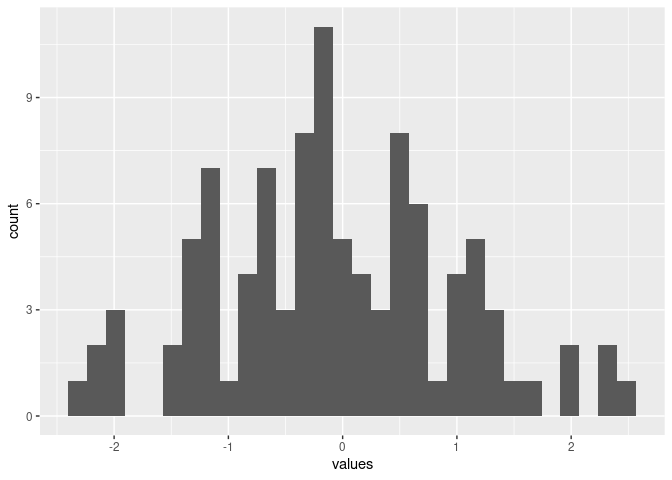
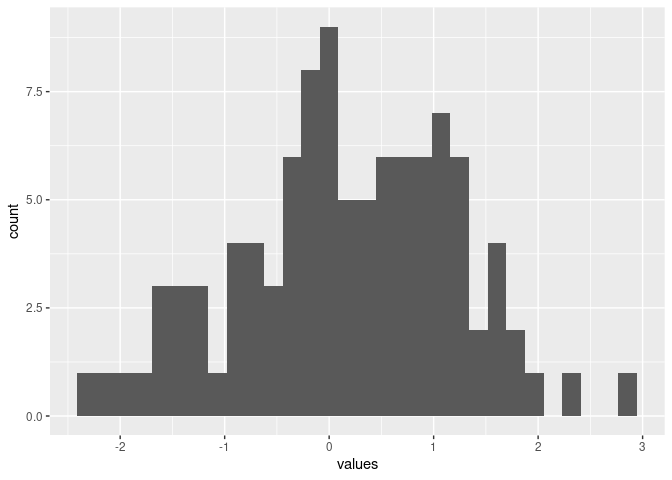
update readme

diff --git a/README.html b/README.html
@@ -35,7 +35,8 @@ body {
 <p>The goal of UN.plot.package is to generate any number of values from either uniform distribution or normal distribution. Plot the histogram for those values.</p>
 <h2 id="installation">Installation</h2>
 <p>You can install the released version of random.plot.package from <a href="https://CRAN.R-project.org">CRAN</a> with:</p>
-<div class="sourceCode" id="cb1"><pre class="sourceCode r"><code class="sourceCode r"><span id="cb1-1"><a href="#cb1-1" aria-hidden="true" tabindex="-1"></a><span class="fu">install.packages</span>(<span class="st">&quot;UN.plot.package&quot;</span>)</span></code></pre></div>
+<div class="sourceCode" id="cb1"><pre class="sourceCode r"><code class="sourceCode r"><span id="cb1-1"><a href="#cb1-1" aria-hidden="true" tabindex="-1"></a><span class="fu">library</span>(devtools)</span>
+<span id="cb1-2"><a href="#cb1-2" aria-hidden="true" tabindex="-1"></a>devtools<span class="sc">::</span><span class="fu">install_github</span>(<span class="st">&quot;tianyang1998/UN.plot.package&quot;</span>)</span></code></pre></div>
 <h2 id="example">Example</h2>
 <p>This is a basic example which shows you how to generate 100 values from normal distribution and uniform distribution. In addition, this example shows you the result histograms for these 100 values:</p>
 <div class="sourceCode" id="cb2"><pre class="sourceCode r"><code class="sourceCode r"><span id="cb2-1"><a href="#cb2-1" aria-hidden="true" tabindex="-1"></a><span class="fu">library</span>(UN.plot.package)</span>
@@ -45,26 +46,26 @@ body {
 <p>The part of the result values generated from both normal distribution and uniform distribution</p>
 <div class="sourceCode" id="cb3"><pre class="sourceCode r"><code class="sourceCode r"><span id="cb3-1"><a href="#cb3-1" aria-hidden="true" tabindex="-1"></a><span class="fu">head</span>(rn<span class="sc">$</span>values)</span>
 <span id="cb3-2"><a href="#cb3-2" aria-hidden="true" tabindex="-1"></a><span class="co">#&gt;        values</span></span>
-<span id="cb3-3"><a href="#cb3-3" aria-hidden="true" tabindex="-1"></a><span class="co">#&gt; 1 -0.08897653</span></span>
-<span id="cb3-4"><a href="#cb3-4" aria-hidden="true" tabindex="-1"></a><span class="co">#&gt; 2  0.56434670</span></span>
-<span id="cb3-5"><a href="#cb3-5" aria-hidden="true" tabindex="-1"></a><span class="co">#&gt; 3 -2.05657884</span></span>
-<span id="cb3-6"><a href="#cb3-6" aria-hidden="true" tabindex="-1"></a><span class="co">#&gt; 4 -0.83166971</span></span>
-<span id="cb3-7"><a href="#cb3-7" aria-hidden="true" tabindex="-1"></a><span class="co">#&gt; 5 -1.20495481</span></span>
-<span id="cb3-8"><a href="#cb3-8" aria-hidden="true" tabindex="-1"></a><span class="co">#&gt; 6  0.48378487</span></span>
+<span id="cb3-3"><a href="#cb3-3" aria-hidden="true" tabindex="-1"></a><span class="co">#&gt; 1  0.07126607</span></span>
+<span id="cb3-4"><a href="#cb3-4" aria-hidden="true" tabindex="-1"></a><span class="co">#&gt; 2  1.77474053</span></span>
+<span id="cb3-5"><a href="#cb3-5" aria-hidden="true" tabindex="-1"></a><span class="co">#&gt; 3  1.69359133</span></span>
+<span id="cb3-6"><a href="#cb3-6" aria-hidden="true" tabindex="-1"></a><span class="co">#&gt; 4 -1.58941078</span></span>
+<span id="cb3-7"><a href="#cb3-7" aria-hidden="true" tabindex="-1"></a><span class="co">#&gt; 5 -1.50899356</span></span>
+<span id="cb3-8"><a href="#cb3-8" aria-hidden="true" tabindex="-1"></a><span class="co">#&gt; 6 -0.28226067</span></span>
 <span id="cb3-9"><a href="#cb3-9" aria-hidden="true" tabindex="-1"></a><span class="fu">head</span>(ru<span class="sc">$</span>values)</span>
-<span id="cb3-10"><a href="#cb3-10" aria-hidden="true" tabindex="-1"></a><span class="co">#&gt;        values</span></span>
-<span id="cb3-11"><a href="#cb3-11" aria-hidden="true" tabindex="-1"></a><span class="co">#&gt; 1 0.008297594</span></span>
-<span id="cb3-12"><a href="#cb3-12" aria-hidden="true" tabindex="-1"></a><span class="co">#&gt; 2 0.371194218</span></span>
-<span id="cb3-13"><a href="#cb3-13" aria-hidden="true" tabindex="-1"></a><span class="co">#&gt; 3 0.150633305</span></span>
-<span id="cb3-14"><a href="#cb3-14" aria-hidden="true" tabindex="-1"></a><span class="co">#&gt; 4 0.934076874</span></span>
-<span id="cb3-15"><a href="#cb3-15" aria-hidden="true" tabindex="-1"></a><span class="co">#&gt; 5 0.555988013</span></span>
-<span id="cb3-16"><a href="#cb3-16" aria-hidden="true" tabindex="-1"></a><span class="co">#&gt; 6 0.737851904</span></span></code></pre></div>
+<span id="cb3-10"><a href="#cb3-10" aria-hidden="true" tabindex="-1"></a><span class="co">#&gt;      values</span></span>
+<span id="cb3-11"><a href="#cb3-11" aria-hidden="true" tabindex="-1"></a><span class="co">#&gt; 1 0.2508414</span></span>
+<span id="cb3-12"><a href="#cb3-12" aria-hidden="true" tabindex="-1"></a><span class="co">#&gt; 2 0.6731990</span></span>
+<span id="cb3-13"><a href="#cb3-13" aria-hidden="true" tabindex="-1"></a><span class="co">#&gt; 3 0.9936017</span></span>
+<span id="cb3-14"><a href="#cb3-14" aria-hidden="true" tabindex="-1"></a><span class="co">#&gt; 4 0.1512569</span></span>
+<span id="cb3-15"><a href="#cb3-15" aria-hidden="true" tabindex="-1"></a><span class="co">#&gt; 5 0.4654515</span></span>
+<span id="cb3-16"><a href="#cb3-16" aria-hidden="true" tabindex="-1"></a><span class="co">#&gt; 6 0.4304327</span></span></code></pre></div>
 <p>The histograms corresponding to the result values</p>
 <div class="sourceCode" id="cb4"><pre class="sourceCode r"><code class="sourceCode r"><span id="cb4-1"><a href="#cb4-1" aria-hidden="true" tabindex="-1"></a>rn<span class="sc">$</span>plot</span></code></pre></div>
[2 lines of base64/hex data omitted]
 
 <div class="sourceCode" id="cb5"><pre class="sourceCode r"><code class="sourceCode r"><span id="cb5-1"><a href="#cb5-1" aria-hidden="true" tabindex="-1"></a>ru<span class="sc">$</span>plot</span></code></pre></div>
[2 lines of base64/hex data omitted]
 
 </body>
 </html>

diff --git a/README.md b/README.md
@@ -16,7 +16,8 @@ You can install the released version of random.plot.package from
 [CRAN](https://CRAN.R-project.org) with:
 
 ``` r
-install.packages("UN.plot.package")
+library(devtools)
+devtools::install_github("tianyang1998/UN.plot.package")
 ```
 
 ## Example
@@ -38,20 +39,20 @@ and uniform distribution
 ``` r
 head(rn$values)
 #>        values
-#> 1 -0.08897653
-#> 2  0.56434670
-#> 3 -2.05657884
-#> 4 -0.83166971
-#> 5 -1.20495481
-#> 6  0.48378487
+#> 1  0.07126607
+#> 2  1.77474053
+#> 3  1.69359133
+#> 4 -1.58941078
+#> 5 -1.50899356
+#> 6 -0.28226067
 head(ru$values)
-#>        values
-#> 1 0.008297594
-#> 2 0.371194218
-#> 3 0.150633305
-#> 4 0.934076874
-#> 5 0.555988013
-#> 6 0.737851904
+#>      values
+#> 1 0.2508414
+#> 2 0.6731990
+#> 3 0.9936017
+#> 4 0.1512569
+#> 5 0.4654515
+#> 6 0.4304327
 ```
 
 The histograms corresponding to the result values
